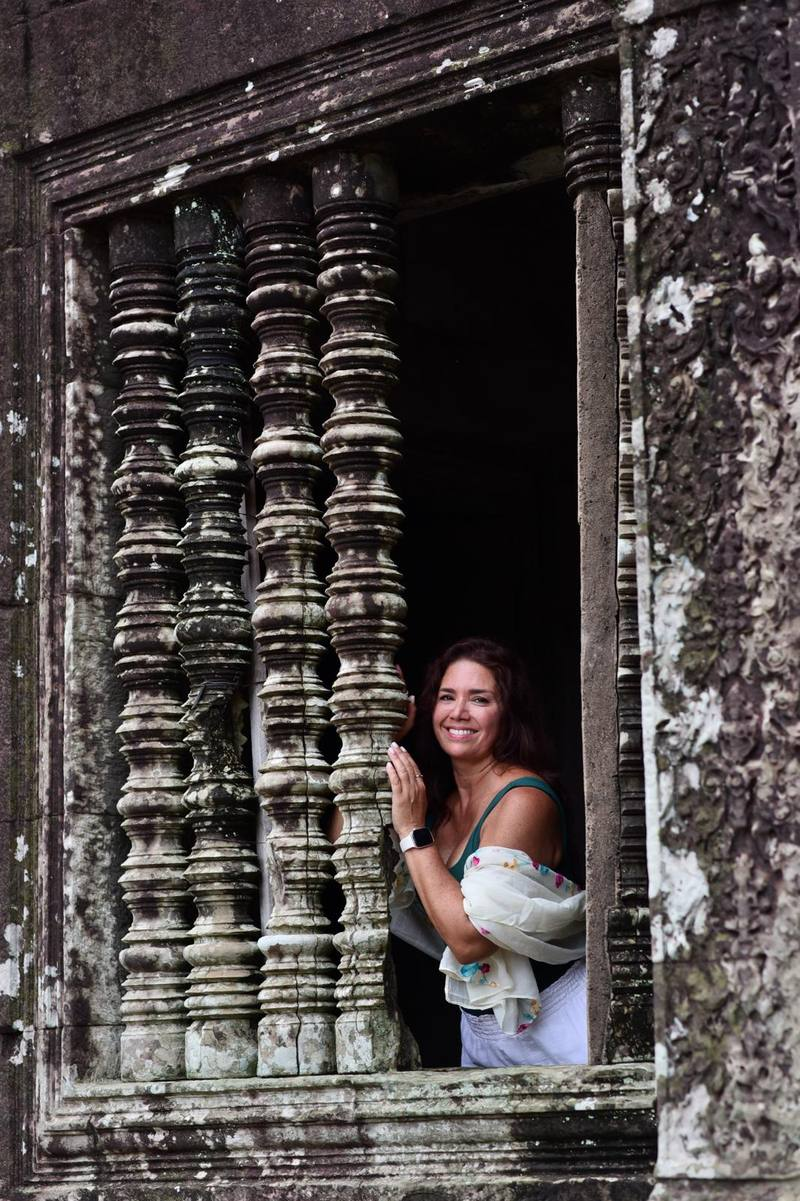
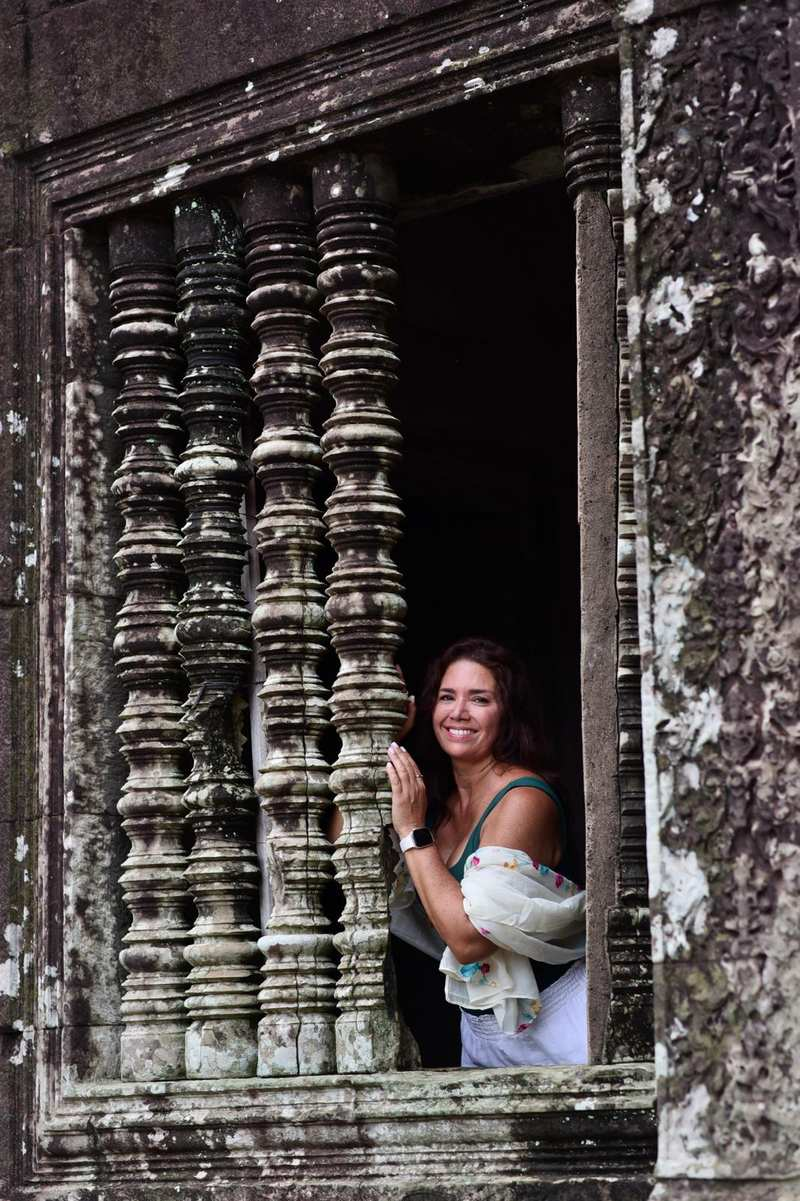
Fix the phone layout and stop repeating photographs
Every framed photo crops to 3:2 under 620px, so the page no longer jumps
between tall, square and wide pictures. The closing band darkens evenly on
a phone so its text stays readable, and the hero gets its native 1138px size.

Each photograph now appears once: the course photo is no longer reused in
the side card, and the near-identical arms-open frame is gone. The side
cards and the method use the producer's venue, circle and talk photos,
with consent confirmed for the people in them.

The image script keeps every file under 150 KB and reads from ../media.

diff --git a/index.html b/index.html
@@ -36,8 +36,8 @@
 <!-- ── Hero ───────────────────────────────────────────── -->
 <section class="hero" id="top">
   <picture class="hero__media">
-    <source type="image/webp" srcset="assets/img/hero-800.webp" sizes="(min-width: 900px) 44vw, 100vw">
-    <img src="assets/img/hero-800.jpg" alt="Peggy Vivas standing before the towers of Angkor Wat at dawn" width="1138" height="1600" fetchpriority="high">
+    <source type="image/webp" srcset="assets/img/hero-800.webp 800w, assets/img/hero-1138.webp 1138w" sizes="(min-width: 900px) 44vw, 100vw">
+    <img src="assets/img/hero-800.jpg" srcset="assets/img/hero-800.jpg 800w, assets/img/hero-1138.jpg 1138w" sizes="(min-width: 900px) 44vw, 100vw" alt="Peggy Vivas standing before the towers of Angkor Wat at dawn" width="1138" height="1600" fetchpriority="high">
   </picture>
   <div class="hero__body">
     <p class="eyebrow">Miami, Florida</p>
@@ -72,18 +72,18 @@
   <div class="sides">
     <article class="side side--room reveal">
       <picture class="frame">
-        <source type="image/webp" srcset="assets/img/speaking-800.webp 800w, assets/img/speaking-1400.webp 1400w" sizes="(min-width: 760px) 46vw, 100vw">
-        <img src="assets/img/speaking-800.jpg" alt="Peggy presenting Mastering Connections to a seated audience" width="1665" height="1536" loading="lazy">
+        <source type="image/webp" srcset="assets/img/venue-800.webp 800w, assets/img/venue-1400.webp 1400w" sizes="(min-width: 760px) 46vw, 100vw">
+        <img src="assets/img/venue-800.jpg" alt="A room of professionals at round tables during a presentation" width="2048" height="846" loading="lazy">
       </picture>
       <h3><span lang="en">In organizations</span><span lang="es">En las organizaciones</span></h3>
       <p><span lang="en">Business development, coaching, consulting and continuing education for community association managers. This is the work she has built a career on.</span>
          <span lang="es">Desarrollo de negocios, coaching, consultoría y educación continua para community association managers. Sobre este trabajo construyó su carrera.</span></p>
     </article>
 
-    <article class="side side--road reveal">
+    <article class="side side--circle reveal">
       <picture class="frame">
-        <source type="image/webp" srcset="assets/img/road-800.webp 800w, assets/img/road-1400.webp 1400w" sizes="(min-width: 760px) 46vw, 100vw">
-        <img src="assets/img/road-800.jpg" alt="Peggy with both arms open in the golden morning light" width="1968" height="2944" loading="lazy">
+        <source type="image/webp" srcset="assets/img/circle-800.webp 800w, assets/img/circle-1400.webp 1400w" sizes="(min-width: 760px) 46vw, 100vw">
+        <img src="assets/img/circle-800.jpg" alt="A group seated in a circle during a session at Magia 33" width="7008" height="4672" loading="lazy">
       </picture>
       <h3><span lang="en">With individuals</span><span lang="es">Con las personas</span></h3>
       <p><span lang="en">Group circles and private sessions, drawn from the systemic and energetic disciplines she has studied over fifteen years.</span>
@@ -94,10 +94,10 @@
 
 <!-- ── The method ─────────────────────────────────────── -->
 <section class="split reveal" id="how">
-  <div class="split__media">
+  <div class="split__media split__media--talk">
     <picture class="frame">
-      <source type="image/webp" srcset="assets/img/reach-800.webp 800w, assets/img/reach-1400.webp 1400w, assets/img/reach-2000.webp 2000w" sizes="(min-width: 900px) 46vw, 100vw">
-      <img src="assets/img/reach-1400.jpg" alt="Peggy seated on stone, one arm raised toward the morning sun" width="2944" height="1968" loading="lazy">
+      <source type="image/webp" srcset="assets/img/talk-800.webp 800w, assets/img/talk-1400.webp 1400w, assets/img/talk-2000.webp 2000w" sizes="(min-width: 900px) 46vw, 100vw">
+      <img src="assets/img/talk-1400.jpg" alt="Two women in conversation in front of a flower of life mural" width="7008" height="4672" loading="lazy">
     </picture>
   </div>
   <div class="split__text">
@@ -115,7 +115,7 @@
 
 <!-- ── Mastering Connections ──────────────────────────── -->
 <section class="split split--reverse reveal" id="classes">
-  <div class="split__media">
+  <div class="split__media split__media--speaking">
     <picture class="frame">
       <source type="image/webp" srcset="assets/img/speaking-800.webp 800w, assets/img/speaking-1400.webp 1400w" sizes="(min-width: 900px) 46vw, 100vw">
       <img src="assets/img/speaking-1400.jpg" alt="Peggy presenting Mastering Connections" width="1665" height="1536" loading="lazy">
@@ -210,7 +210,7 @@
 
 <!-- ── About ──────────────────────────────────────────── -->
 <section class="split reveal" id="about">
-  <div class="split__media">
+  <div class="split__media split__media--window">
     <picture class="frame">
       <source type="image/webp" srcset="assets/img/window-800.webp" sizes="(min-width: 900px) 44vw, 100vw">
       <img src="assets/img/window-800.jpg" alt="Peggy at a carved temple window, resting against the stone columns" width="1066" height="1600" loading="lazy">

diff --git a/styles.css b/styles.css
@@ -325,8 +325,8 @@ a { color: inherit; }
 .sides { display: grid; gap: clamp(1.75rem, 4vw, 2.75rem); }
 .side img { aspect-ratio: 4 / 5; object-fit: cover; transition: transform 0.6s ease; }
 .side:hover img { transform: scale(1.03); }
-.side--room img { object-position: 58% 52%; }
-.side--road img { object-position: 50% 64%; }
+.side--room img { object-position: 50% 60%; }
+.side--circle img { object-position: 50% 50%; }
 .side h3 { margin: 1.4rem 0 0.6rem; }
 .side p { color: var(--ink-soft); font-size: 0.97rem; }
 
@@ -479,6 +479,12 @@ a { color: inherit; }
   .band__after { margin-top: 1.2rem; }
 
   .split { gap: 1.5rem; }
+  /* one landscape shape for every framed photo, so the page does not
+     jump between tall, square and wide pictures as it scrolls */
+  .split__media img { aspect-ratio: 3 / 2; object-fit: cover; }
+  .split__media--talk img { object-position: 50% 40%; }
+  .split__media--speaking img { object-position: 50% 58%; }
+  .split__media--window img { object-position: 62% 74%; }
   .sides { gap: 1.5rem; }
   .side img { aspect-ratio: 3 / 2; }
   .side h3 { margin: 0.9rem 0 0.4rem; }
@@ -496,6 +502,10 @@ a { color: inherit; }
   .credit { margin-top: 1.3rem; }
 
   .closing { min-height: 0; }
+  /* the side gradient leaves the right of a narrow screen bright under
+     the text, so on a phone the whole photo is darkened evenly */
+  .closing::after { background: rgba(20, 28, 22, 0.72); }
+  .closing__media img { object-position: 62% 45%; }
   .closing__body { padding-block: 3.2rem; }
   .closing__body p { margin-bottom: 1.4rem; }
   .elsewhere { gap: 0.6rem; margin-top: 1.5rem; }

diff --git a/events/index.html b/events/index.html
@@ -6,7 +6,7 @@
 <title>Dates · Peggy Vivas</title>
 <meta name="description" content="Upcoming circles and trainings facilitated by Peggy Vivas: Constelaciones Familiares and Reiki Sistémico, through Magia 33 in Miami.">
 <meta property="og:title" content="Dates · Peggy Vivas">
-<meta property="og:image" content="/assets/img/reach-1400.jpg">
+<meta property="og:image" content="/assets/img/circle-1400.jpg">
 <link rel="preconnect" href="https://fonts.googleapis.com">
 <link rel="preconnect" href="https://fonts.gstatic.com" crossorigin>
 <link href="https://fonts.googleapis.com/css2?family=Fraunces:ital,opsz,wght@0,9..144,300..600;1,9..144,300..500&family=Inter:wght@300;400;500&display=swap" rel="stylesheet">

diff --git a/tools/optimize-images.py b/tools/optimize-images.py
@@ -5,7 +5,7 @@ Sources are never modified. Everything is written to assets/img/.
 EXIF rotation is baked into the pixels here, because WebP does not carry it
 and the photos come off the camera stored sideways.
 
-    python3 tools/optimize-images.py ["../media/more content for landing page"]
+    python3 tools/optimize-images.py ["../media"]
 """
 import sys
 from pathlib import Path
@@ -13,18 +13,31 @@ from PIL import Image, ImageOps
 
 ROOT = Path(__file__).resolve().parent.parent
 OUT = ROOT / "assets" / "img"
-DEFAULT_SRC = ROOT.parent / "media" / "more content for landing page"
+DEFAULT_SRC = ROOT.parent / "media"
 
-# page name -> source file
+# page name -> source file, relative to ../media/
+LANDING = "more content for landing page/"
+MAGIA = "Magia33 Content Sep 18/Imagenes Landing/"
 PHOTOS = {
-    "hero": "WhatsApp Image 2026-09-22 at 16.46.19.jpeg",   # standing before the temple at dawn
-    "window": "WhatsApp Image 2026-09-22 at 16.46.22.jpeg",  # in the temple window
-    "road": "DSC_9047.jpg",        # arms open, golden light, upright frame
-    "open": "DSC_9046.jpg",        # arms open, wide frame
-    "reach": "DSC_9044.JPG",       # seated, arm raised
-    "speaking": "1728407623653.jpeg",  # Mastering Connections, Ball Janik
+    "hero": LANDING + "WhatsApp Image 2026-09-22 at 16.46.19.jpeg",   # standing before the temple at dawn
+    "window": LANDING + "WhatsApp Image 2026-09-22 at 16.46.22.jpeg",  # in the temple window
+    "open": LANDING + "DSC_9046.jpg",        # arms open, wide frame (DSC_9047 is the same moment; never use both)
+    "speaking": LANDING + "1728407623653.jpeg",  # Mastering Connections
+    "venue": LANDING + "1698155008820.jpeg",     # ballroom of professionals, In organizations
+    "circle": MAGIA + "CASA MAGIA 33-52.jpg",    # the circle at Magia 33, With individuals
+    "talk": MAGIA + "CASA MAGIA 33-15.jpg",      # two women talking before the mural, the method
 }
 WIDTHS = (800, 1400, 2000)
+BUDGET = 150 * 1024  # bytes per file
+
+
+def save_within_budget(im, path, fmt, quality, **opts):
+    """Step the quality down until the file fits the budget, floor 50."""
+    while True:
+        im.save(path, fmt, quality=quality, **opts)
+        if path.stat().st_size <= BUDGET or quality <= 50:
+            return quality
+        quality -= 4
 
 
 def main() -> int:
@@ -41,16 +54,22 @@ def main() -> int:
             return 1
         with Image.open(path) as im:
             im = ImageOps.exif_transpose(im).convert("RGB")
-            for width in WIDTHS:
-                if width > im.width:
-                    continue  # never upscale; the source is the ceiling
+            # never upscale; a source too small for the 1400 size is also
+            # written at its own width, so phones get every pixel there is
+            widths = [w for w in WIDTHS if w <= im.width]
+            if im.width < 1400 and im.width not in widths:
+                widths.append(im.width)
+            for width in widths:
                 height = round(im.height * width / im.width)
                 resized = im.resize((width, height), Image.LANCZOS)
-                resized.save(OUT / f"{name}-{width}.webp", "WEBP", quality=78, method=6)
-                resized.save(OUT / f"{name}-{width}.jpg", "JPEG", quality=72,
-                             optimize=True, progressive=True)
-            made = [w for w in WIDTHS if w <= im.width]
-            print(f"{name}: {im.width}x{im.height} -> {made}")
+                webp, jpg = OUT / f"{name}-{width}.webp", OUT / f"{name}-{width}.jpg"
+                save_within_budget(resized, webp, "WEBP", 78, method=6)
+                save_within_budget(resized, jpg, "JPEG", 72, optimize=True, progressive=True)
+                if width not in WIDTHS and max(webp.stat().st_size, jpg.stat().st_size) > BUDGET:
+                    webp.unlink()  # the extra size is optional; drop it rather than ship it heavy
+                    jpg.unlink()
+                    widths.remove(width)
+            print(f"{name}: {im.width}x{im.height} -> {widths}")
 
     print(f"done -> {OUT}")
     return 0

diff --git a/CLAUDE.md b/CLAUDE.md
@@ -156,8 +156,9 @@ Terracotta labels, hairline rules, no markers.
 
 ## Mobile Is Tighter Than Desktop On Purpose
 
-Under 620px the whole scale steps down: smaller type, shorter blocks, landscape crops, lighter
-card padding. The default scale read as oversized boxes on a phone and hid the shape of the
+Under 620px the whole scale steps down: smaller type, shorter blocks, lighter card padding, and
+**every framed photo cropped to 3:2**, so the page does not jump between tall, square and wide
+pictures. The closing band darkens evenly there so its text stays readable. The default scale read as oversized boxes on a phone and hid the shape of the
 page. Most visitors arrive from her Instagram bio, so **check a change on a phone first.**
 
 ## Two Details She Asked For By Name
@@ -169,17 +170,24 @@ page. Most visitors arrive from her Instagram bio, so **check a change on a phon
 ## Photographs
 
 - **Her chosen photographs**, and where they sit: `hero` the dawn portrait in the framed hero
-  panel, `window` the temple window in About, `road` and `open` her two other favourites, in the
-  third side card and the closing band.
+  panel, `window` the temple window in About, `open` in the closing band, `venue` (a ballroom
+  of professionals) and `circle` (a Magia 33 circle) in the two side cards, `talk` in the method,
+  `speaking` in Mastering Connections. `venue`, `circle` and `talk` were chosen by the producer.
+- **Every photograph appears once.** `speaking` used to sit in a side card and in the course
+  section, and `road` (DSC_9047) is the same moment as `open` from one burst; both read as
+  duplicates on a phone and were replaced. Check near-identical frames, not only filenames.
 - **Only photographs in which Peggy is the only identifiable person.** The Magia 33 session
   photos show attendees' faces and would need each person's consent. Brand OS §6 rule 7, and the
-  strictest rule here. The `speaking` photo is the one exception under review: other attendees
+  strictest rule here. **Exception, 2026-09-24:** the producer confirmed consent for everyone in
+  `venue`, `circle` and `talk`. That covers those three files only, not the rest of the shoot. The `speaking` photo is the one exception under review: other attendees
   are visible at the edges of the frame, so confirm before it goes public.
 - Sources live outside the repo in `../media/`. Only generated files are committed.
 - **Always regenerate through `tools/optimize-images.py`.** It bakes EXIF rotation into the
   pixels; WebP does not carry orientation and several originals are stored sideways.
-- Each frame is composed differently, so `.side--practice`, `.side--room` and `.side--road` carry
-  their own `object-position`. Changing a photo means retuning its focal point.
+- Each frame is composed differently, so `.side--room`, `.side--circle` and each
+  `.split__media--*` carry their own `object-position`. Changing a photo means retuning it.
+- **The script keeps every file under 150 KB** by stepping quality down, and writes a native
+  width size only for sources under 1400px when it fits (currently `hero-1138`).
 
 ## No Social Grid
 
